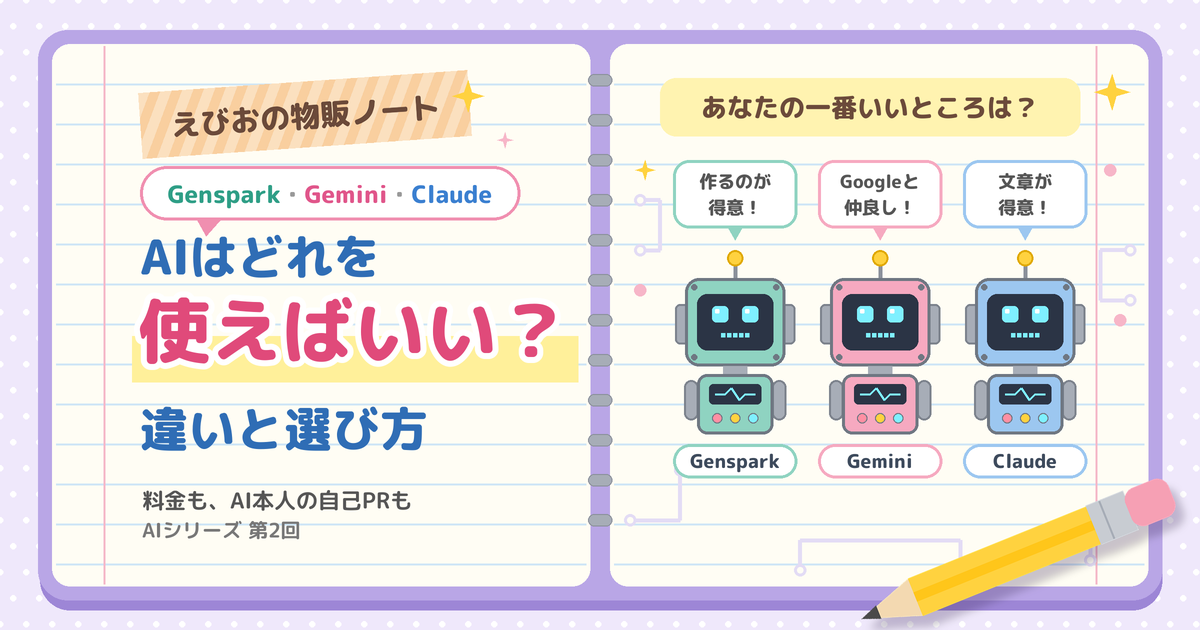
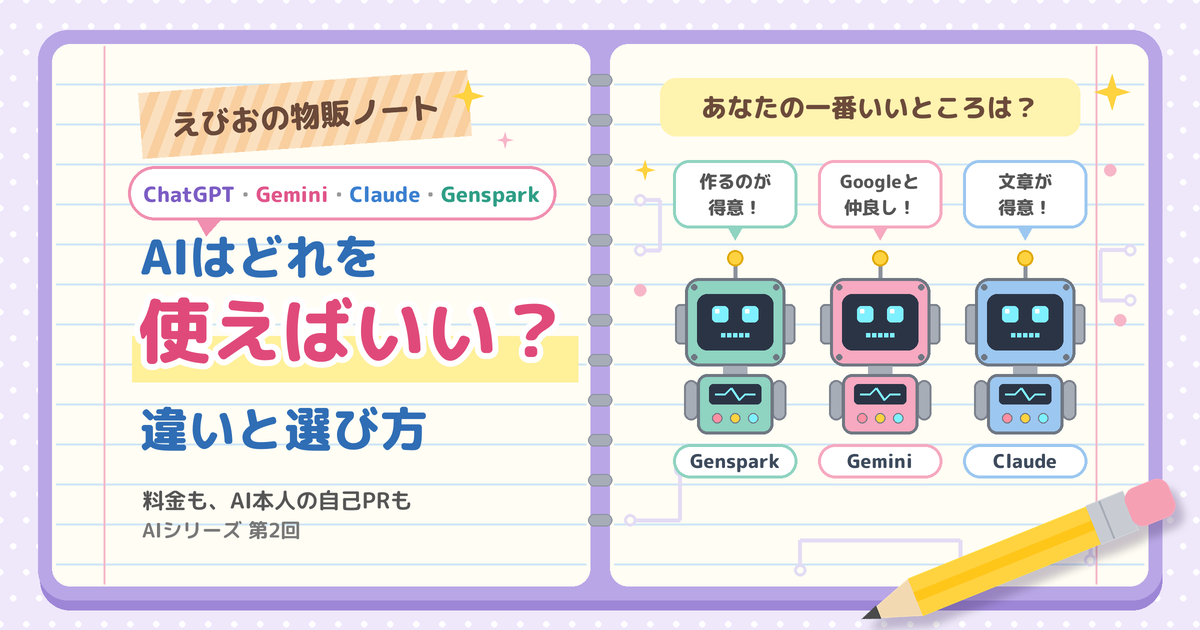
AIシリーズ②：アイキャッチのふきだしにChatGPTを追加
Claude-Session: https://claude.ai/code/session_01N2fxswy6RVjmdiXBWezNkW

Changed region(s): [[0.0925, 0.2413, 0.4625, 0.3619]]

diff --git a/shiryo/hikitsugi-ai-series-2.md b/shiryo/hikitsugi-ai-series-2.md
@@ -36,7 +36,7 @@
 
 ## アプリ版でやってほしいこと
 1. アイキャッチ画像（posts/2026-10-13-ai-erabikata.png）を、下書き1700番のアイキャッチに設定する
-   代替テキスト：えびおの物販ノート Genspark・Gemini・Claude AIはどれを使えばいい？違いと選び方 料金も、AI本人の自己PRも AIシリーズ 第2回 あなたの一番いいところは？ Genspark 作るのが得意！ Gemini Googleと仲良し！ Claude 文章が得意！
+   代替テキスト：えびおの物販ノート ChatGPT・Gemini・Claude・Genspark AIはどれを使えばいい？違いと選び方 料金も、AI本人の自己PRも AIシリーズ 第2回 あなたの一番いいところは？ Genspark 作るのが得意！ Gemini Googleと仲良し！ Claude 文章が得意！
 2. プレビューで見た目を確かめる（表、番号つきリスト、ふきだし、公式ページ4つのリンクが開くか）
    クラウド版からは、ChatGPT・Gemini・Genspark の公式ページが開けなかったので、リンクと料金を確かめていない
 3. 【要確認】3か所を、えびおと確かめて消す
